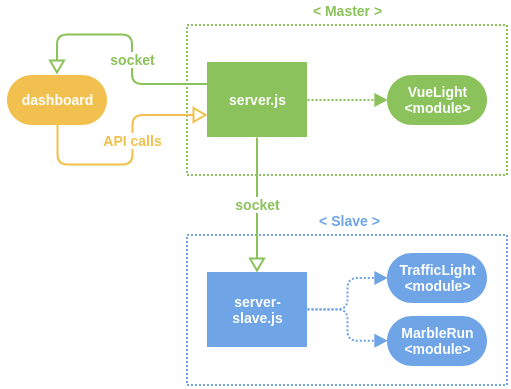
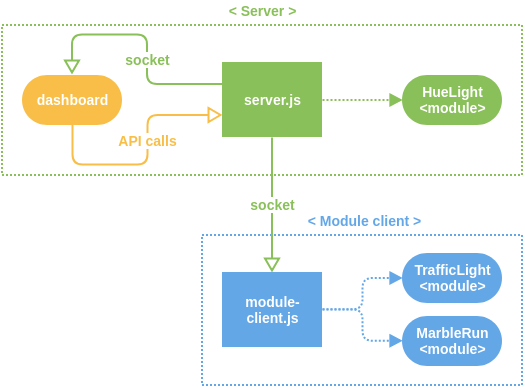
Fix the master slave setup image

diff --git a/docs/module-client.md b/docs/module-client.md
@@ -1,6 +1,6 @@
-# Server slave
+# Module client
 
-@todo: Explain that you can run a `module-client.js` application that connects to the `server.js` application socket
+@todo: Explain that you can run a `back-end/module-client.js` application that connects to the `back-end/server.js` application socket
 
 ![](img/master-slave-setup.png)
 
